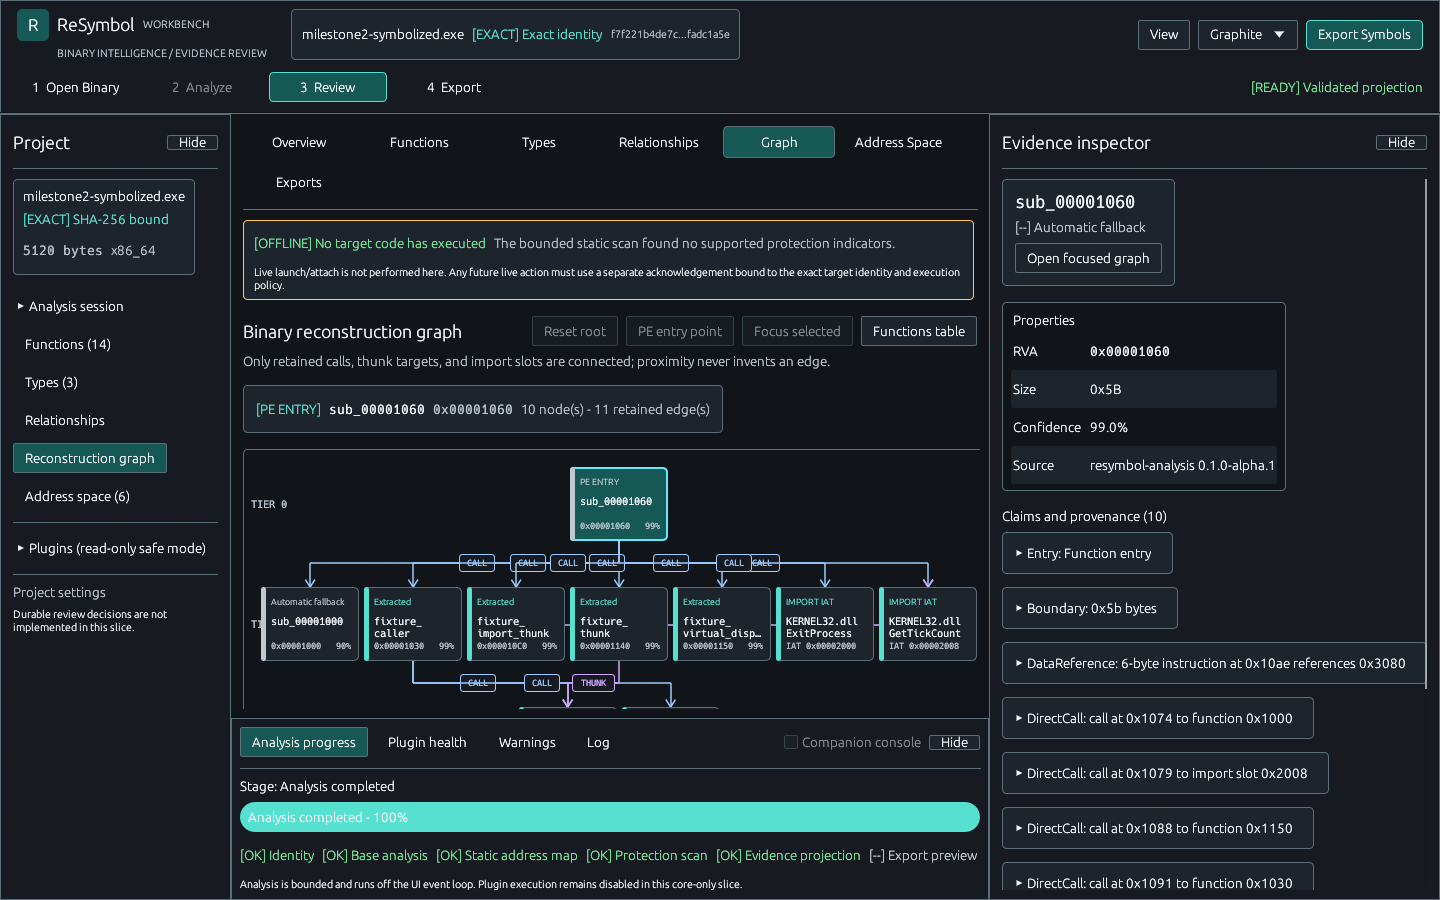
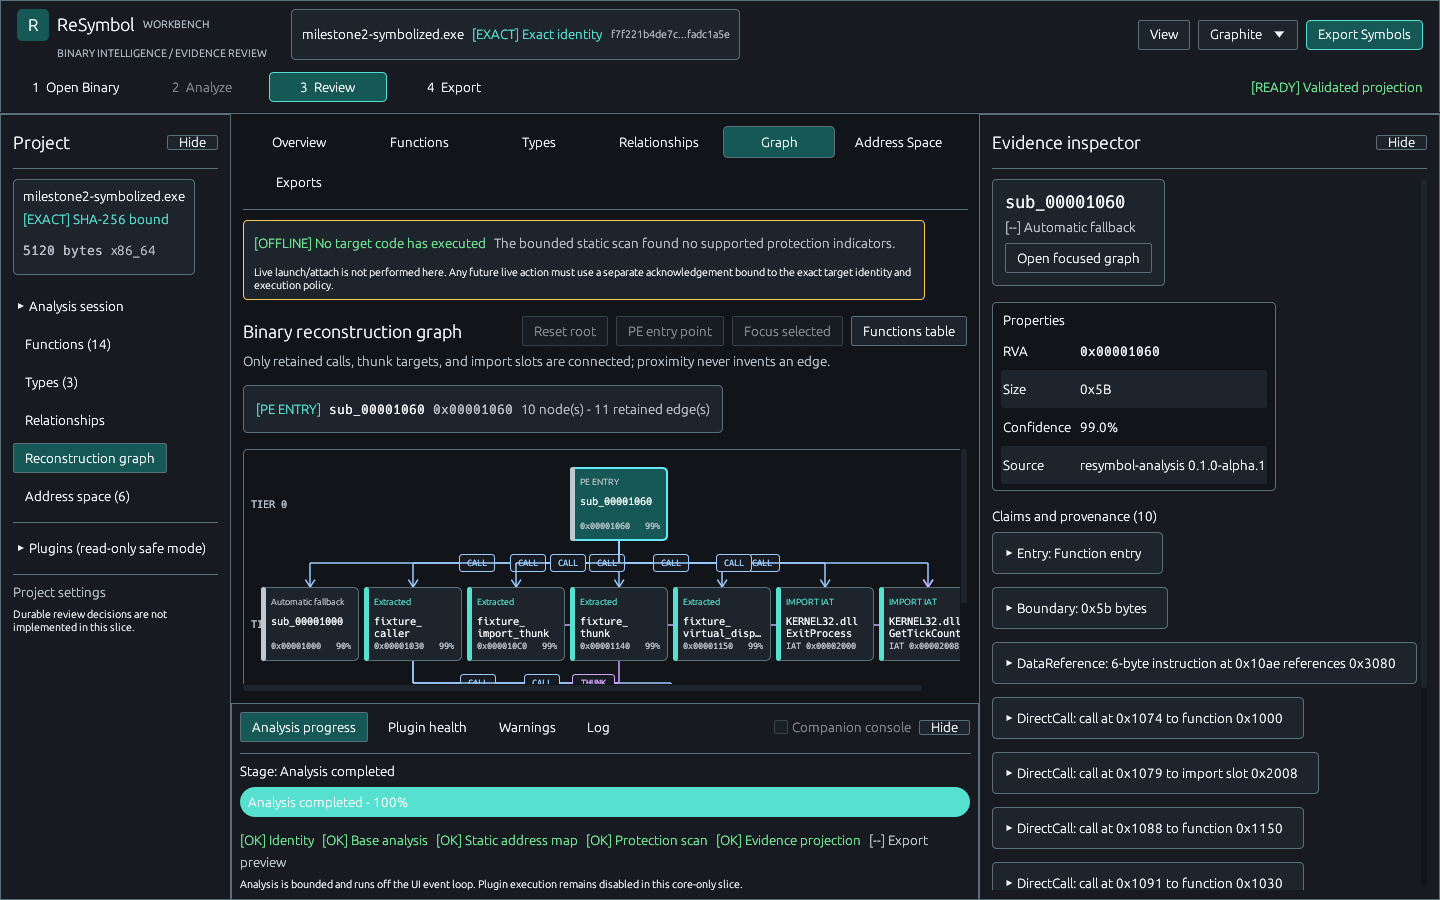
Stabilize capture scrollbars

diff --git a/crates/resymbol-workbench/src/app.rs b/crates/resymbol-workbench/src/app.rs
@@ -273,7 +273,12 @@ impl WorkbenchApp {
         #[cfg(feature = "screenshot")]
         creation_context
             .egui_ctx
-            .style_mut(|style| style.animation_time = 0.0);
+            .style_mut(|style| {
+                style.animation_time = 0.0;
+                // Floating scrollbars expand when the pointer happens to overlap them. Captures
+                // must not depend on the host cursor position, so keep their width fixed.
+                style.spacing.scroll = egui::style::ScrollStyle::solid();
+            });
         #[cfg(feature = "screenshot")]
         for panel_id in [
             "project_navigation",
